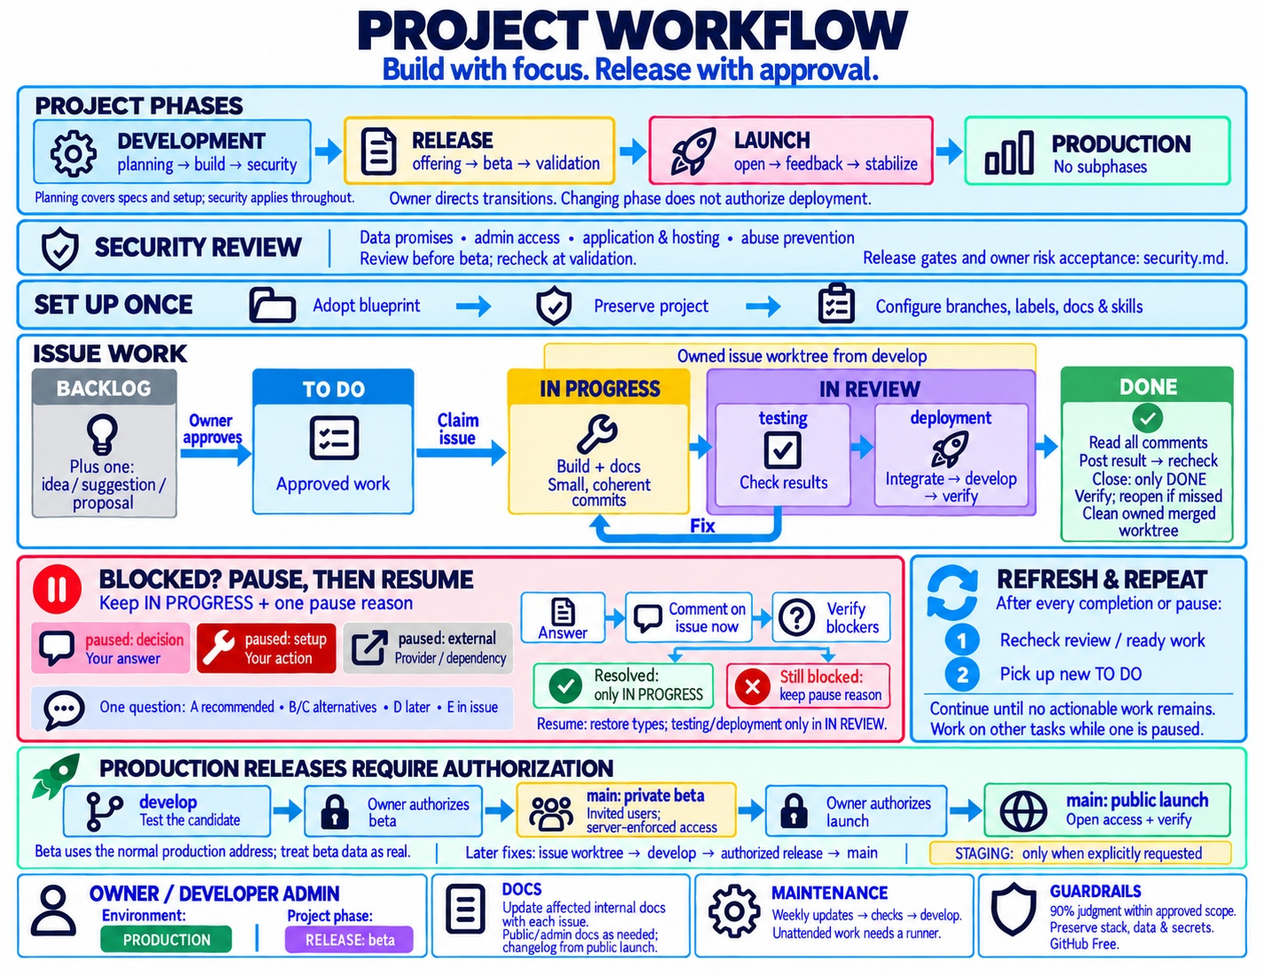
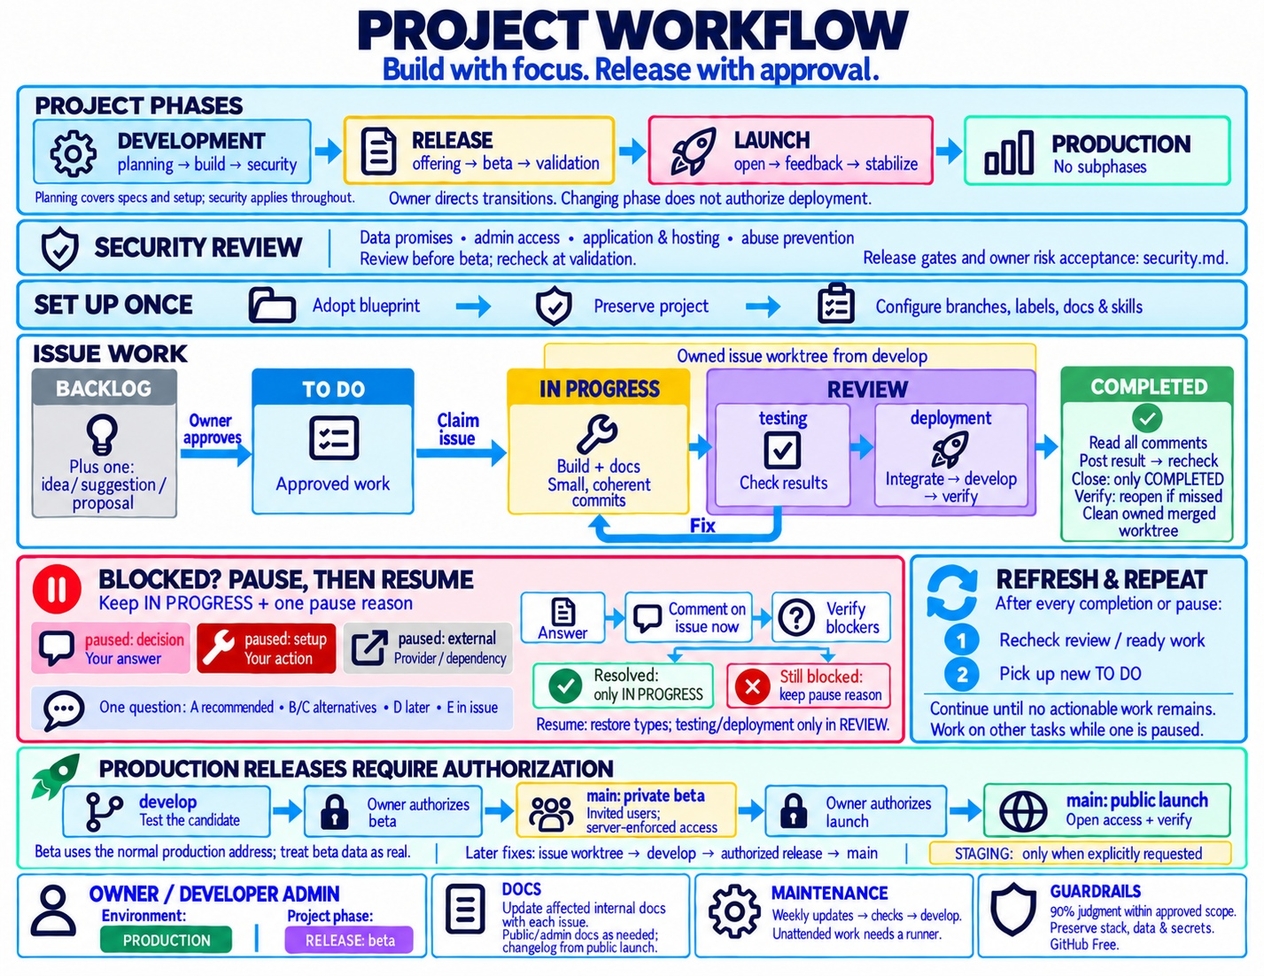
Use REVIEW and COMPLETED throughout the workflow (#20)

diff --git a/template/git-workflow.md b/template/git-workflow.md
@@ -11,18 +11,18 @@ Verify repository, Issues, and Project access before development; create/link th
 | `BACKLOG` | Gray | Future/unapproved work; do not implement. |
 | `TO DO` | Blue | Approved work expected to be done. |
 | `IN PROGRESS` | Yellow | Implementation underway, paused, or ready to resume. |
-| `IN REVIEW` | Lavender | Final testing, agent review, or delivery verification underway. |
-| `DONE` | Green | Closed as completed, verified and delivered. |
+| `REVIEW` | Lavender | Final testing, agent review, or delivery verification underway. |
+| `COMPLETED` | Green | Closed as completed, verified and delivered. |
 
 Match Project status colors to the nearest available palette color.
 
 Project authorization is separate from repository authorization; inspect token scopes and account/organization permissions before attributing a failure to the plan. Synchronize through available tools during active work; background synchronization is optional. Report genuine missing access with exact setup steps, not a plan-upgrade request.
 
-Only `IN REVIEW` has a stage label: `testing` or `deployment`. Deployment means final integration and delivery verification; ordinary work targets development, with staging only if authorized and active. Production requires release authorization. Follow [project.md](project.md) for environments. Documentation-only work needs verified remote integration, not runtime deployment.
+Only `REVIEW` has a stage label: `testing` or `deployment`. Deployment means final integration and delivery verification; ordinary work targets development, with staging only if authorized and active. Production requires release authorization. Follow [project.md](project.md) for environments. Documentation-only work needs verified remote integration, not runtime deployment.
 
-Use `IN PROGRESS` without a stage while building. Move finished work to `IN REVIEW` + `testing`, then `deployment` for integration/delivery. Replace previous status/stage labels. Required fixes return to `IN PROGRESS` without a stage, then repeat verification. Review means agent verification and automated checks; it adds no mandatory PR or human approval.
+Use `IN PROGRESS` without a stage while building. Move finished work to `REVIEW` + `testing`, then `deployment` for integration/delivery. Replace previous status/stage labels. Required fixes return to `IN PROGRESS` without a stage, then repeat verification. Review means agent verification and automated checks; it adds no mandatory PR or human approval.
 
-Routine pending checks stay `IN REVIEW`; record the candidate, run links, and remaining checks in the issue. Recheck results during active work and queue refreshes; pending, skipped, or unavailable required checks are not passes. If progress requires a user answer, setup, or provider/dependency change, use the pause flow below, even when discovered during review.
+Routine pending checks stay `REVIEW`; record the candidate, run links, and remaining checks in the issue. Recheck results during active work and queue refreshes; pending, skipped, or unavailable required checks are not passes. If progress requires a user answer, setup, or provider/dependency change, use the pause flow below, even when discovered during review.
 
 Use `bug`, `feature`, and `enhancement` while useful. Optional backlog items use `BACKLOG` plus exactly one descriptive label:
 
@@ -32,7 +32,7 @@ Use `bug`, `feature`, and `enhancement` while useful. Optional backlog items use
 | `suggestion` | Recommended improvement with a brief reason. |
 | `proposal` | Developed recommendation with scope, benefits, effort, and a decision needed. |
 
-Choose the best fit; replace rather than stack these labels as the item develops. None authorizes implementation. At completion remove every label except `DONE`. Never mark canceled or unfinished issues completed.
+Choose the best fit; replace rather than stack these labels as the item develops. None authorizes implementation. At completion remove every label except `COMPLETED`. Never mark canceled or unfinished issues completed.
 
 ## Paused work
 
@@ -46,7 +46,7 @@ Keep the issue open in the `IN PROGRESS` column with exactly `IN PROGRESS` and o
 
 Try available APIs/tools and authorized autonomous actions first. Before removing labels, record prior status, any review stage, and type labels in the issue comment; preserve the worktree. Continue independent work; otherwise leave a handoff and take other approved work. Avoid repeated unchanged retries or nudges. For multiple blockers, label the next dependency and briefly list the others; change the reason as work advances.
 
-After an answer or completed setup resolves all blockers, keep the issue open with only `IN PROGRESS` and matching Project status: ready to resume. Preserve removed labels in comments. Verify external dependencies; retain the appropriate pause while blocked. At task boundaries, read new comments and resume eligible owned work before new `TO DO` unless reprioritized. On resumption restore useful types, with a stage only for `IN REVIEW` testing/delivery; honor later user changes and ownership. Recheck external waits at task boundaries or through configured monitoring; label changes do not wake idle agents.
+After an answer or completed setup resolves all blockers, keep the issue open with only `IN PROGRESS` and matching Project status: ready to resume. Preserve removed labels in comments. Verify external dependencies; retain the appropriate pause while blocked. At task boundaries, read new comments and resume eligible owned work before new `TO DO` unless reprioritized. On resumption restore useful types, with a stage only for `REVIEW` testing/delivery; honor later user changes and ownership. Recheck external waits at task boundaries or through configured monitoring; label changes do not wake idle agents.
 
 Quote pause labels exactly in commands and searches: `gh issue list --label 'paused: decision'` or `label:"paused: decision"`.
 
@@ -67,9 +67,9 @@ Every development change needs an issue with outcome and acceptance criteria. Re
 During authorized implementation/queue work:
 
 1. Fetch current Issues and Project statuses at session start/resumption, after each completed or paused issue, and before selecting work. Read all result pages; a remembered starting list is not the queue.
-2. Follow user priority, then eligible owned work (including `IN REVIEW` checks and ready resumptions), then available `TO DO`. Recheck ownership/status before claiming. Reconcile clear status/label drift from the latest user action; do not guess approval from ambiguous mismatches.
+2. Follow user priority, then eligible owned work (including `REVIEW` checks and ready resumptions), then available `TO DO`. Recheck ownership/status before claiming. Reconcile clear status/label drift from the latest user action; do not guess approval from ambiguous mismatches.
 3. Complete or properly pause the task, then fetch again. Include new tasks added during the session; do not ask to continue already approved work.
-4. Before stopping for lack of work, fetch again and confirm no actionable `TO DO` or eligible owned work remains. Pending `IN REVIEW` work needs a run/status handoff and an active session or verified runner for follow-up; never abandon it as done. Distinguish pending/paused/other-agent work from an empty queue. Failed reads do not prove emptiness.
+4. Before stopping for lack of work, fetch again and confirm no actionable `TO DO` or eligible owned work remains. Pending `REVIEW` work needs a run/status handoff and an active session or verified runner for follow-up; never abandon it as done. Distinguish pending/paused/other-agent work from an empty queue. Failed reads do not prove emptiness.
 
 Honor an explicit stop, review-only scope, or execution limit. Preserve a handoff if unable to continue. Later work requires an active session or separately configured wakeup; these instructions do not install automation.
 
@@ -101,6 +101,6 @@ Before completing:
 3. Review staged scope/secrets, commit any remaining changes with the issue reference, fetch current `develop`, and combine it with the issue branch in the owned checkout. Resolve conflicts and verify required checks pass on that exact candidate.
 4. Push the tested candidate directly to `develop` with a normal fast-forward push, or use the requested/required PR path. If `develop` advances or the push is rejected, refresh and revalidate before retrying. Never force-push shared history, bypass protections, or integrate an untested replacement. Confirm remote integration, required delivery checks, and current documentation.
 5. Post a brief result comment **on the issue**, covering changes, request/question outcomes, verification, docs, delivery, and commit links (PR links when used). Group related outcomes and link relevant comments; chat updates alone do not count. Read back the saved comment; a failed or unverified write blocks closure.
-6. Refresh the body and all comments after posting the result. Resolve unaddressed new/edited input, repeat affected checks, update the result, and refresh again. Then set Project status and the only label to `DONE`, and close as completed. Immediately verify state/labels/Project and reread body/comments; missed unresolved input requires reopening with the appropriate status, review stage, or pause and continuing work. Automatic closing keywords/actions must not bypass these checks.
+6. Refresh the body and all comments after posting the result. Resolve unaddressed new/edited input, repeat affected checks, update the result, and refresh again. Then set Project status and the only label to `COMPLETED`, and close as completed. Immediately verify state/labels/Project and reread body/comments; missed unresolved input requires reopening with the appropriate status, review stage, or pause and continuing work. Automatic closing keywords/actions must not bypass these checks.
 
 After verified closure, remove only your own clean merged worktree/branch and prune; preserve pending/paused work. Completion does not authorize a production release.

diff --git a/skills/issue-interview/SKILL.md b/skills/issue-interview/SKILL.md
@@ -9,7 +9,7 @@ Confirm the target repository and use its `git-workflow.md` for statuses and bri
 
 ## Prepare and ask
 
-1. Fetch the live Issues, Project statuses, and relevant comments across all pages. Identify started issues that actually need user input, including blockers discovered in `IN REVIEW`; honor any requested scope or priority. Start with decisions that unblock other work, then actionable setup. Do not ask the user to solve a provider-only wait, an ordinary pending check, or a choice already answered. Review optional backlog proposals only when requested.
+1. Fetch the live Issues, Project statuses, and relevant comments across all pages. Identify started issues that actually need user input, including blockers discovered in `REVIEW`; honor any requested scope or priority. Start with decisions that unblock other work, then actionable setup. Do not ask the user to solve a provider-only wait, an ordinary pending check, or a choice already answered. Review optional backlog proposals only when requested.
 2. Give a brief count of items needing input, then ask **one short question at a time**. Include the issue number/title as a direct link, one sentence of context, and the smallest decision needed. If one issue has several decisions, handle them separately. Wait for the user's answer before asking the next question.
 3. Offer **A — Recommended**, with a short reason, and useful **B/C** alternatives with brief tradeoffs. Do not invent alternatives merely to fill slots. Always include **D — Answer later; next question** and **E — I'll answer in the issue; next question**, with the exact issue link. Accept a custom answer, a request for explanation, or a stop at any time. A recommendation is never a default approval.
 4. For setup, recommend the smallest action with verified direct links and exact steps. Do authorized API/tool work yourself first. Choosing to perform setup is not proof it was completed; verify the result before treating the blocker as resolved.
@@ -19,7 +19,7 @@ Confirm the target repository and use its `git-workflow.md` for statuses and bri
 Do this immediately after every answer, before asking the next question. Never collect a batch of answers for a final issue-update pass. The interview authorizes these answer comments and matching status/label updates; do not ask the user to repeat the answer in GitHub or remove the label manually.
 
 1. Re-read the issue's latest comments, labels, and Project status so concurrent work is preserved. Post a brief comment recording the answer's meaning, scope, and resulting next step, not just the option letter. Exclude secrets or private information from public issues. If the answer was already posted directly in the issue, use that comment instead of duplicating it.
-2. For started work whose blockers are verified resolved, immediately replace all labels with exactly `IN PROGRESS`, including removal of `paused: external`. Keep it open with matching Project status; preserve ownership and record removed types and any review stage in the comment. On resumption, restore useful types and use stages only under `IN REVIEW`, following `git-workflow.md`. Answering does not complete the issue.
+2. For started work whose blockers are verified resolved, immediately replace all labels with exactly `IN PROGRESS`, including removal of `paused: external`. Keep it open with matching Project status; preserve ownership and record removed types and any review stage in the comment. On resumption, restore useful types and use stages only under `REVIEW`, following `git-workflow.md`. Answering does not complete the issue.
 3. If another decision, unfinished setup, or external dependency still blocks work, retain or switch to the appropriate pause reason and state the remaining blocker. For D/E, record the deferral, leave the pause intact, and skip it for the rest of this interview. An intention to answer in the issue or perform setup is not completion. Unapproved proposals remain `BACKLOG`.
 4. Read back the saved comment, labels, and Project status. Then give a short linked confirmation such as "Recorded on #123; pause removed, ready to resume" or "Recorded on #123; still waiting for provider setup." Only then ask the next question. Do not imply that implementation has already restarted. If a write or verification fails, recover and retry without duplicating comments; report an unresolved failure and retain the pending answer rather than claiming synchronization or silently postponing it to the end.
 

diff --git a/template/updates.md b/template/updates.md
@@ -24,7 +24,7 @@ For later updates, use the isolated development/test environment, or staging if 
 2. Enable the dependency graph, vulnerability alerts, and available security-update features. Dependabot security PRs normally target the default branch; setting a version-update target is not enough to route security fixes. Verify the behavior for the current GitHub setup. If the default is `main`, arrange a tested integration path through `develop` rather than blindly enabling production-branch auto-merge.
 3. Configure automated tests, build, lint/type checks, and relevant smoke tests as required verification. Use native auto-merge and branch rules only where available on GitHub Free. Otherwise use the agent integration path below. Missing, skipped, pending, or failed required checks must not count as success. Validate the current PR revision against the current integration branch; do not bypass existing protection or use administrator overrides.
 4. Restrict automatic eligibility to verified Dependabot-origin PRs targeting `develop`, containing expected dependency/lockfile changes and passing policy checks. Keep workflow permissions minimal and pin external actions to reviewed immutable revisions. Do not execute untrusted PR code in a privileged approval/merge job or expose production secrets to dependency tests.
-5. Connect update PRs to an automatically created maintenance issue (individual or coherent batch) and the Project, using the normal status/stage lifecycle. Dependabot creates its own isolated PR branch; human/agent code changes still require an owned issue worktree. An agent repairing a bot PR must coordinate ownership, not race the bot on its branch. Close the linked issue with only `DONE` after required integration and delivery succeed; closing a PR alone is not proof of completion.
+5. Connect update PRs to an automatically created maintenance issue (individual or coherent batch) and the Project, using the normal status/stage lifecycle. Dependabot creates its own isolated PR branch; human/agent code changes still require an owned issue worktree. An agent repairing a bot PR must coordinate ownership, not race the bot on its branch. Close the linked issue with only `COMPLETED` after required integration and delivery succeed; closing a PR alone is not proof of completion.
 6. Use an existing authorized runner or supported dispatch mechanism for unattended repairs when available without new charges. Dependabot and auto-merge do not perform arbitrary repairs or wake an idle chat agent. Verify any handoff and record run/status links. Otherwise active agents process maintenance during live queue refreshes; document that unattended repair/integration is not configured. Never claim automation is active from instructions alone.
 7. Verify the configured path with an applicable update: detection, passing checks, integration, delivery checks, and issue completion. Also verify that a failed or ineligible update stays unmerged. Record which steps are unattended versus performed by an active agent, the schedule, coverage, checks, and remaining gaps in `docs/internal/`; link the status from [project.md](project.md). A verified free path satisfies setup without native paid features.
 

diff --git a/README.md b/README.md
@@ -4,7 +4,7 @@ Reusable instructions for new and existing projects. You decide what to build an
 
 This blueprint evolves without a changelog; agents check at implementation-session start and queue updates under [AGENTS.md](template/AGENTS.md), keeping current guidance until approved adoption.
 
-![Application workflow: planning, build, security, release, launch, and ongoing production. Gray BACKLOG, blue TO DO, yellow IN PROGRESS, lavender IN REVIEW with testing/delivery, and green DONE after comment checks and posted results. Owned worktrees, pink decision/red setup/silver external pauses, and live queue refresh. Security checks and authorization precede beta and public launch.](assets/project-workflow-landscape.jpg)
+![Application workflow: planning, build, security, release, launch, and ongoing production. Gray BACKLOG, blue TO DO, yellow IN PROGRESS, lavender REVIEW with testing/delivery, and green COMPLETED after comment checks and posted results. Owned worktrees, pink decision/red setup/silver external pauses, and live queue refresh. Security checks and authorization precede beta and public launch.](assets/project-workflow-landscape.jpg)
 
 Application workflow overview. [Open the full-size landscape JPEG](assets/project-workflow-landscape.jpg) (11 × 8.5 inches).
 
@@ -24,9 +24,9 @@ Application workflow overview. [Open the full-size landscape JPEG](assets/projec
 | Release | Instruct the agent which release to perform. Passing tests alone does not authorize production. |
 | Update these standards | Request a blueprint change; existing projects follow the update guidance in their `AGENTS.md`. |
 
-The board and matching issue labels follow `BACKLOG → TO DO → IN PROGRESS → IN REVIEW → DONE`. `IN REVIEW` shows finished implementation undergoing tests, automated checks, or final delivery verification; it does not require your review of every issue. Fixes return to `IN PROGRESS`.
+The board and matching issue labels follow `BACKLOG → TO DO → IN PROGRESS → REVIEW → COMPLETED`. `REVIEW` shows finished implementation undergoing tests, automated checks, or final delivery verification; it does not require your review of every issue. Fixes return to `IN PROGRESS`.
 
-Paused issues stay `IN PROGRESS` with one pause reason. Comment when a blocker is resolved; the agent verifies it before resuming. During interviews, it immediately records each answer and leaves resolved issues labeled only `IN PROGRESS`, visibly ready to resume. When work resumes, testing/delivery returns to `IN REVIEW`. Unresolved blockers keep their pause reason.
+Paused issues stay `IN PROGRESS` with one pause reason. Comment when a blocker is resolved; the agent verifies it before resuming. During interviews, it immediately records each answer and leaves resolved issues labeled only `IN PROGRESS`, visibly ready to resume. When work resumes, testing/delivery returns to `REVIEW`. Unresolved blockers keep their pause reason.
 
 Before closing, the agent resolves every comment, posts results, and checks for missed input under the [completion checks](template/git-workflow.md#isolation-branches-and-delivery).
 

diff --git a/skills/adopt-existing/SKILL.md b/skills/adopt-existing/SKILL.md
@@ -43,7 +43,7 @@ For already-live products, preserve the current service and release baseline. If
 
 1. Inventory labels and Project statuses across all issues, including closed ones. Record the old-to-new mapping in the adoption issue, preserving comments, ownership, dependencies, and meaningful priority/type information.
 2. Apply canonical labels and five statuses under `git-workflow.md`. Remove obsolete definitions only when replacement is authorized, after remapping issues and updating filters/automation. Helpers only create/update label definitions; they do not migrate issues.
-3. Keep truly completed issues closed with only `DONE`; never mark canceled work completed. Use `IN PROGRESS` without a stage for building, or `IN REVIEW` with `testing`/`deployment` for verification/delivery, based on evidence. Started blockers keep `IN PROGRESS` plus one pause; preserve types and any review stage in comments.
+3. Keep truly completed issues closed with only `COMPLETED`; never mark canceled work completed. Use `IN PROGRESS` without a stage for building, or `REVIEW` with `testing`/`deployment` for verification/delivery, based on evidence. Started blockers keep `IN PROGRESS` plus one pause; preserve types and any review stage in comments.
 4. When adopting from `docs/wiki/` or an existing wiki, preserve useful pages, diagrams, assets, and history in private `docs/internal/` and repair links. Verify preservation before retiring wiki publishing jobs and completion requirements; never delete the only copy. Follow `documentation.md` for ongoing internal/public/admin docs and retain the application's release history.
 5. Install applicable skills through the target agent's supported mechanism or retain a readable blueprint checkout. Verify discovery or explicit file access and record the locations in target `AGENTS.md`.
 6. Complete compatible parts of `project.md`; document deferred maintenance or deployment changes honestly. Verify links, tracking, and unchanged application behavior in a safe development/test environment. Report changes and remaining user actions briefly with direct links.

diff --git a/template/AGENTS.md b/template/AGENTS.md
@@ -32,7 +32,7 @@ Use actual scripts/CI. Run applicable commands before marking them verified; ide
 
 - Development needs an issue and an isolated issue branch/worktree; an existing dedicated checkout suffices. Follow [git-workflow.md](git-workflow.md) for verified direct integration and release authorization.
 - Never update `main` or deploy production without an explicit release instruction; passing tests and a completed issue are not that instruction.
-- Done means every issue comment addressed, a verified result comment posted, verified behavior, current docs, successful delivery, and a closed issue with only `DONE`. Follow the final comment/closure checks in [git-workflow.md](git-workflow.md); unread or unresolved input blocks closing.
+- Completion means every issue comment addressed, a verified result comment posted, verified behavior, current docs, successful delivery, and a closed issue with only `COMPLETED`. Follow the final comment/closure checks in [git-workflow.md](git-workflow.md); unread or unresolved input blocks closing.
 - During implementation, refresh live work after each completed/paused issue and before stopping; continue newly added actionable approved work. Questions, reviews, and interviews do not start the implementation queue.
 - Never expose or commit secrets; use synthetic test data. Credentials authorize approved work only.
 - Preserve existing frameworks, working features, data, and deployment behavior. Replacing an established stack needs explicit approval. Use the `adopt-existing` skill when adopting/updating this blueprint in an existing project.

diff --git a/AGENTS.md b/AGENTS.md
@@ -19,7 +19,7 @@ Use [template/git-workflow.md](template/git-workflow.md) for issues, tracking, l
 
 Use the 90% judgment guideline and autonomous-work boundaries in [template/AGENTS.md](template/AGENTS.md); it is not a measured probability. Follow [template/security.md](template/security.md) for credentials and data. Read other templates only when changing their subject matter.
 
-Keep distributed files generic: no adopting-project personal, company, account, repository, or application identities. Use placeholders for project configuration, authority, and jurisdictions. Relevant third-party sources, packages, and skills may be named; citations do not authorize installation. Keep maintenance notes outside `template/`. Maintain consistent instructions, labels, and authorized autonomy. Verify integration into `main`, then close with only `DONE`.
+Keep distributed files generic: no adopting-project personal, company, account, repository, or application identities. Use placeholders for project configuration, authority, and jurisdictions. Relevant third-party sources, packages, and skills may be named; citations do not authorize installation. Keep maintenance notes outside `template/`. Maintain consistent instructions, labels, and authorized autonomy. Verify integration into `main`, then close with only `COMPLETED`.
 
 All blueprint requirements must support GitHub Free for public and private repositories. Never require a plan upgrade, billed usage, or public visibility; document verified free alternatives.
 
